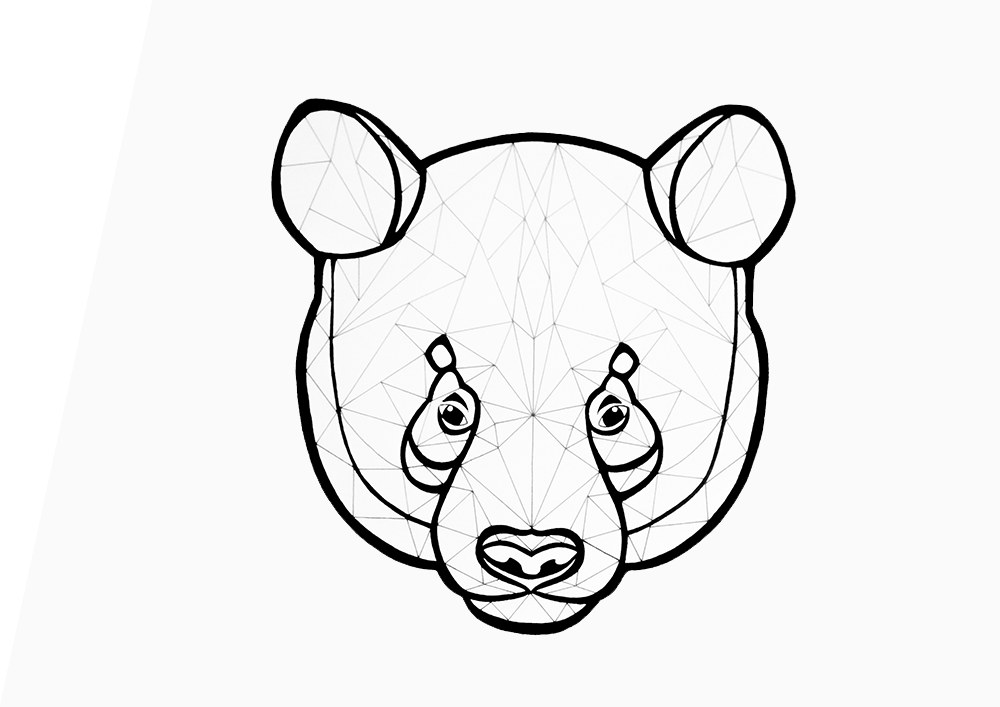
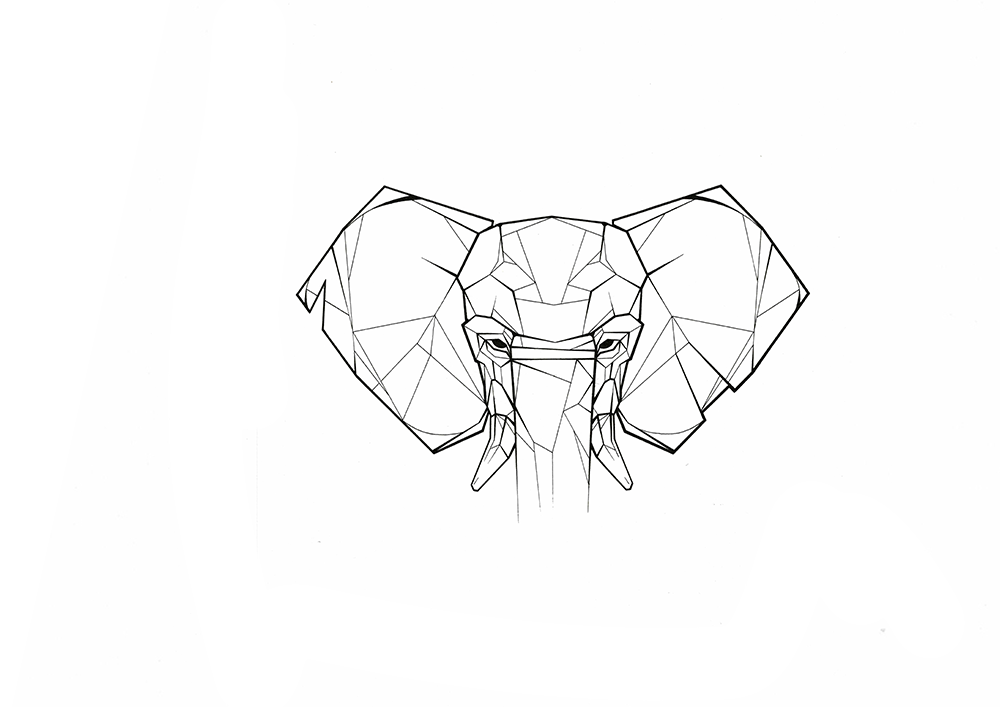
Update previsualisation and cover images

Changed region(s): [[0.248, 0.1245, 0.806, 0.9024]]

diff --git a/css/main.css b/css/main.css
@@ -798,7 +798,7 @@ html body button:hover {
 
 .works .row .works-col-left .works-link1:hover:before {
   z-index: 2;
-  background-image: url(../medias/previsualisations/home/animaux.png);
+  background-image: url(../medias/previsualisations/home/geometric_animals.png);
   background-size: cover;
   background-repeat: no-repeat;
   -webkit-transition: opacity 0.5s ease-in-out;

diff --git a/css/main.scss b/css/main.scss
@@ -821,7 +821,7 @@ html {
 
       .works-link1:hover:before {
         z-index: 2;
-        background-image: url(../medias/previsualisations/home/animaux.png);
+        background-image: url(../medias/previsualisations/home/geometric_animals.png);
         background-size: cover;
         background-repeat: no-repeat;
         -webkit-transition: opacity 0.5s ease-in-out;
